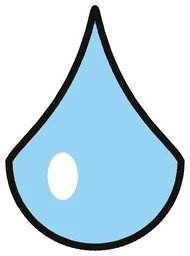
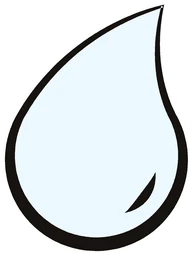
Pocket Camera: the sweat drop, drawn the way Akira Toriyama draws one
The owner: "Make the water drop look like an Akira Toriyama water drop , draw in Python
audit yourself". Redrawn in tools/draw-manga-marks.py: a plump bulb, a short tip that
flicks to one side, one brush line heavy at the bottom and thin at the tip (brush_shape),
the shine inside. Audited four times at three sizes and on a photo. Our own drawing,
nothing traced. The marks test passes; the other nine marks are unchanged.

Claude-Session: https://claude.ai/code/session_0137qroUB9UGZ1HjWvU7yNZU

diff --git a/tools/draw-manga-marks.py b/tools/draw-manga-marks.py
@@ -41,17 +41,70 @@ def polygon_outline(d, points, fill, line=LINE):
         d.ellipse([p[0] - line / 2, p[1] - line / 2, p[0] + line / 2, p[1] + line / 2], fill=INK)
 
 
+def bezier(p0, p1, p2, p3, n=60):
+    """Points along a cubic Bézier curve, its end left out (the next piece starts there)."""
+    out = []
+    for i in range(n):
+        t = i / n
+        u = 1 - t
+        out.append((u ** 3 * p0[0] + 3 * u * u * t * p1[0] + 3 * u * t * t * p2[0] + t ** 3 * p3[0],
+                    u ** 3 * p0[1] + 3 * u * u * t * p1[1] + 3 * u * t * t * p2[1] + t ** 3 * p3[1]))
+    return out
+
+
+def brush_shape(d, outline, width, fill):
+    """An ink line drawn as a brush pen draws it: the shape filled with ink, then filled again with `fill` inside an
+    edge `width(i)` thick at point i, so the line swells and thins as it goes round."""
+    n = len(outline)
+    area = sum(outline[i][0] * outline[(i + 1) % n][1] - outline[(i + 1) % n][0] * outline[i][1] for i in range(n))
+    side = 1 if area > 0 else -1          # which normal points in, whichever way round the outline was drawn
+    inner = []
+    for i, (x, y) in enumerate(outline):
+        (ax, ay), (bx, by) = outline[i - 1], outline[(i + 1) % n]
+        tx, ty = bx - ax, by - ay
+        length = math.hypot(tx, ty) or 1
+        w = width(i)
+        inner.append((x - ty / length * w * side, y + tx / length * w * side))
+    d.polygon(outline, fill=INK)
+    d.polygon(inner, fill=fill)
+
+
 def sweat():
+    """The sweat drop, as Akira Toriyama draws one (the owner: "Make the water drop look like an Akira Toriyama water
+    drop"): a plump round bulb and a sharp tip that leans and curls a little to one side; one bold brush line, heavy
+    round the bottom and thinning to the tip; a pale inside with a short curved stroke along the inside of the bulb, the
+    shine on the water. Our own drawing of the way he draws them, nothing traced."""
     im, d = canvas()
-    cx, cy, r = S / 2, S * .6, S * .26
-    pts = []
-    for i in range(121):
-        a = math.pi * 2 * i / 120
-        x, y = math.sin(a), -math.cos(a)
-        k = max(0.0, -y)
-        pts.append((cx + r * x * (1 - .9 * k ** 1.15), cy + r * y - S * .2 * k ** 3))
-    polygon_outline(d, pts, (150, 212, 244, 255))
-    d.ellipse([cx - r * .55, cy - r * .1, cx - r * .2, cy + r * .45], fill=WHITE)
+    r, cx, cy = S * .29, S * .45, S * .64
+    at = lambda deg: (cx + r * math.cos(math.radians(deg)), cy - r * math.sin(math.radians(deg)))
+    heading = lambda deg: (-math.sin(math.radians(deg)), -math.cos(math.radians(deg)))   # along the bulb, angle rising
+    L, R = 150, 388                                    # the bulb's shoulders, left and right, round under the bottom
+    bulb = [at(L + (R - L) * i / 140) for i in range(141)]
+    tip = (cx + r * .74, cy - r * 1.7)                 # short, and leaning: the drop has just flown off
+    r0, hr = at(R), heading(R)
+    l0, hl = at(L), heading(L)
+    # The right side comes in under the tip (the hook); the left swings out full, so the tip flicks to one side.
+    up = bezier(r0, (r0[0] + hr[0] * r * .45, r0[1] + hr[1] * r * .45), (tip[0] - r * .08, tip[1] + r * .38), tip)
+    down = bezier(tip, (tip[0] - r * .36, tip[1] + r * .08), (l0[0] - hl[0] * r * .95, l0[1] - hl[1] * r * .95), l0)
+    outline = bulb[:-1] + up + down
+    nb, nu, nd = len(bulb) - 1, len(up), len(down)
+
+    def width(i):
+        if i < nb:                                     # round the bulb: heaviest at the bottom
+            return r * (.085 + .065 * math.sin(math.pi * i / nb))
+        if i < nb + nu:                                # up the right side, thinning to the tip
+            return r * (.085 - .06 * ((i - nb) / nu) ** 1.4)
+        return r * (.025 + .06 * ((i - nb - nu) / nd) ** .8)   # down the left, swelling again
+    brush_shape(d, outline, width, (236, 248, 255, 255))
+    # The shine: a short stroke along the inside of the bulb, low on the right, thick in its middle and pointed at its ends.
+    out, back = [], []
+    for i in range(41):
+        deg, k = -62 + 50 * i / 40, math.sin(math.pi * i / 40)
+        ux, uy = math.cos(math.radians(deg)), -math.sin(math.radians(deg))
+        px, py = cx + r * .66 * ux, cy + r * .66 * uy
+        out.append((px + ux * r * .05 * k, py + uy * r * .05 * k))
+        back.append((px - ux * r * .05 * k, py - uy * r * .05 * k))
+    d.polygon(out + back[::-1], fill=INK)
     return im
 
 

diff --git a/camera/HANDOVER-2026-10-29.md b/camera/HANDOVER-2026-10-29.md
@@ -281,7 +281,12 @@ first in a save and on one canvas under the other stickers on screen, the circle
 clear space is still the one picked up). `lettering.js` adds Sound (`balloon:sfx`, in a 38 KB subset of Rounded Mplus 1c
 Black, OFL) and twelve ready-made effects in the text sheet. `tools/draw-manga-marks.py` draws ten marks into
 `camera/stickers/marks/` and `marks.json`, which `stickers.js` loads beside the studio's sheets under a new Manga tab
-(never a Memory deck or a greeting: `kind: "marks"`). Judged on the phone: the first lines were too thin to read over a
+(never a Memory deck or a greeting: `kind: "marks"`). The sweat drop was then redrawn the way Akira Toriyama draws one (the owner: "Make the water drop look like an Akira
+Toriyama water drop , draw in Python audit yourself"), audited four times at 480, 128 and 56 px and on a photo: the
+first came apart (its bulb drawn round the top, its brush edge offset outwards); then a tall, upright, generic drop; then
+plump but pointing straight up; the fourth, kept, has a plump bulb, a short tip that flicks to one side, a brush line
+(`brush_shape`) heavy at the bottom and thin at the tip, and the shine inside. Our own drawing, nothing traced.
+Judged on the phone: the first lines were too thin to read over a
 busy picture and the marks went in at a resident's size; both fixed. The six sticker tabs fit from 360 points up (at 320
 they scroll rather than squeeze a name). Checks: 54 browser checks (new: the Manga tab and its order, the lines drawn
 towards the edges with their circle clear, a dragged centre, ゴゴゴ from the presets, a mark, all three printed into a

diff --git a/camera/README.md b/camera/README.md
@@ -141,7 +141,9 @@ techniques, drawn here:
   and Latin, 38 KB, `fonts/OFL-MPLUSRounded1c.txt`), each turned and sized a little along a rising line, black with a
   white edge. Twelve ready to tap, with what they mean: ドーン!, ゴゴゴ, ドキドキ, ガーン, ジャーン!, バーン!, キラキラ, シーン,
   ザワザワ, ゴクリ, BOOM!, WHAM!.
-- **Marks** (`tools/draw-manga-marks.py`, under the lines in the Manga tab): sweat drop, anger vein, sparkles, heart,
+- **Marks** (`tools/draw-manga-marks.py`, under the lines in the Manga tab): sweat drop (drawn the way Akira Toriyama
+  draws one, the owner: "Make the water drop look like an Akira Toriyama water drop": a plump bulb, a short tip that
+  flicks to one side, one brush line heavy at the bottom and thin at the tip, the shine inside), anger vein, sparkles, heart,
   !, ?, !?, gloom lines, blush and a music note, drawn in Python with an ink line and a white edge. They go in small,
   by a face, and are never a deck for Memory or a greeting.
 
